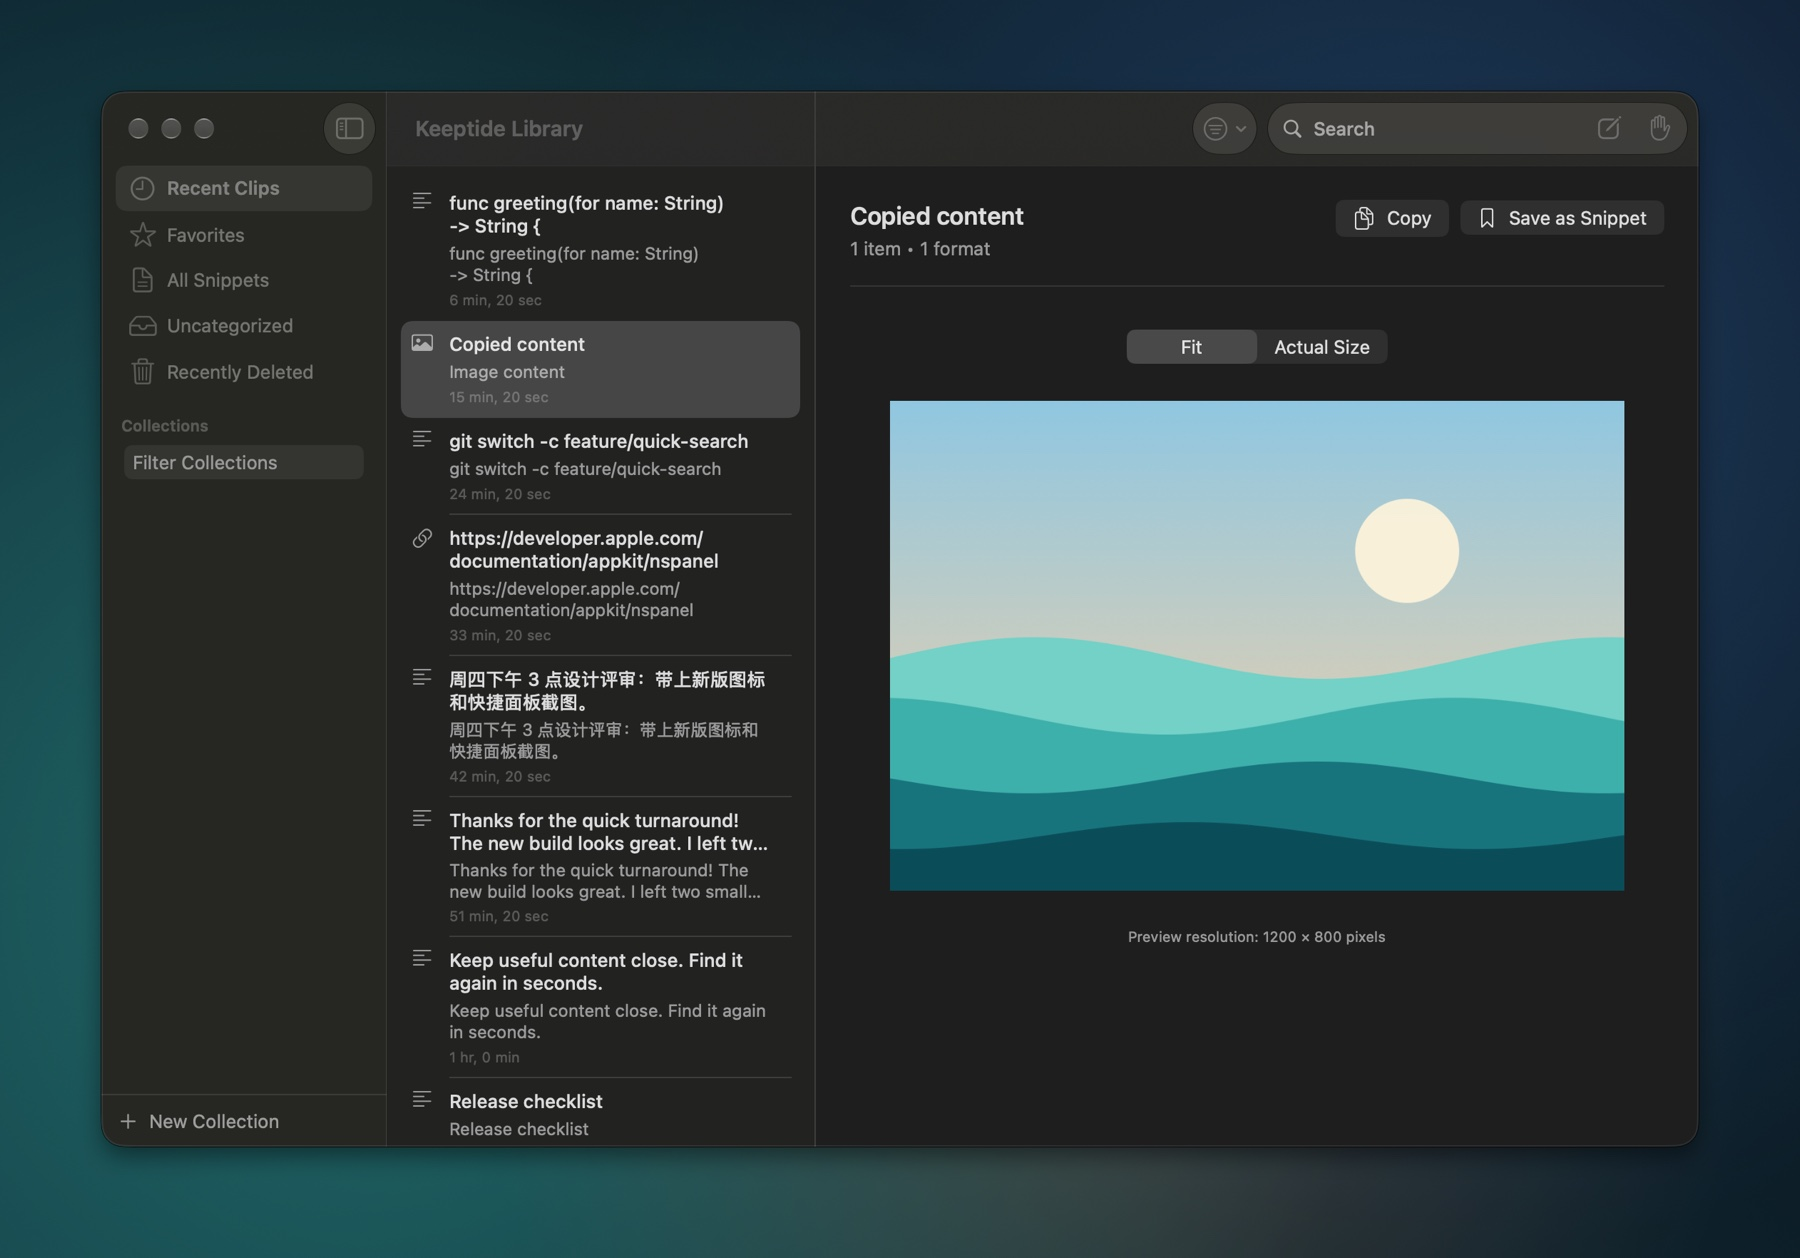
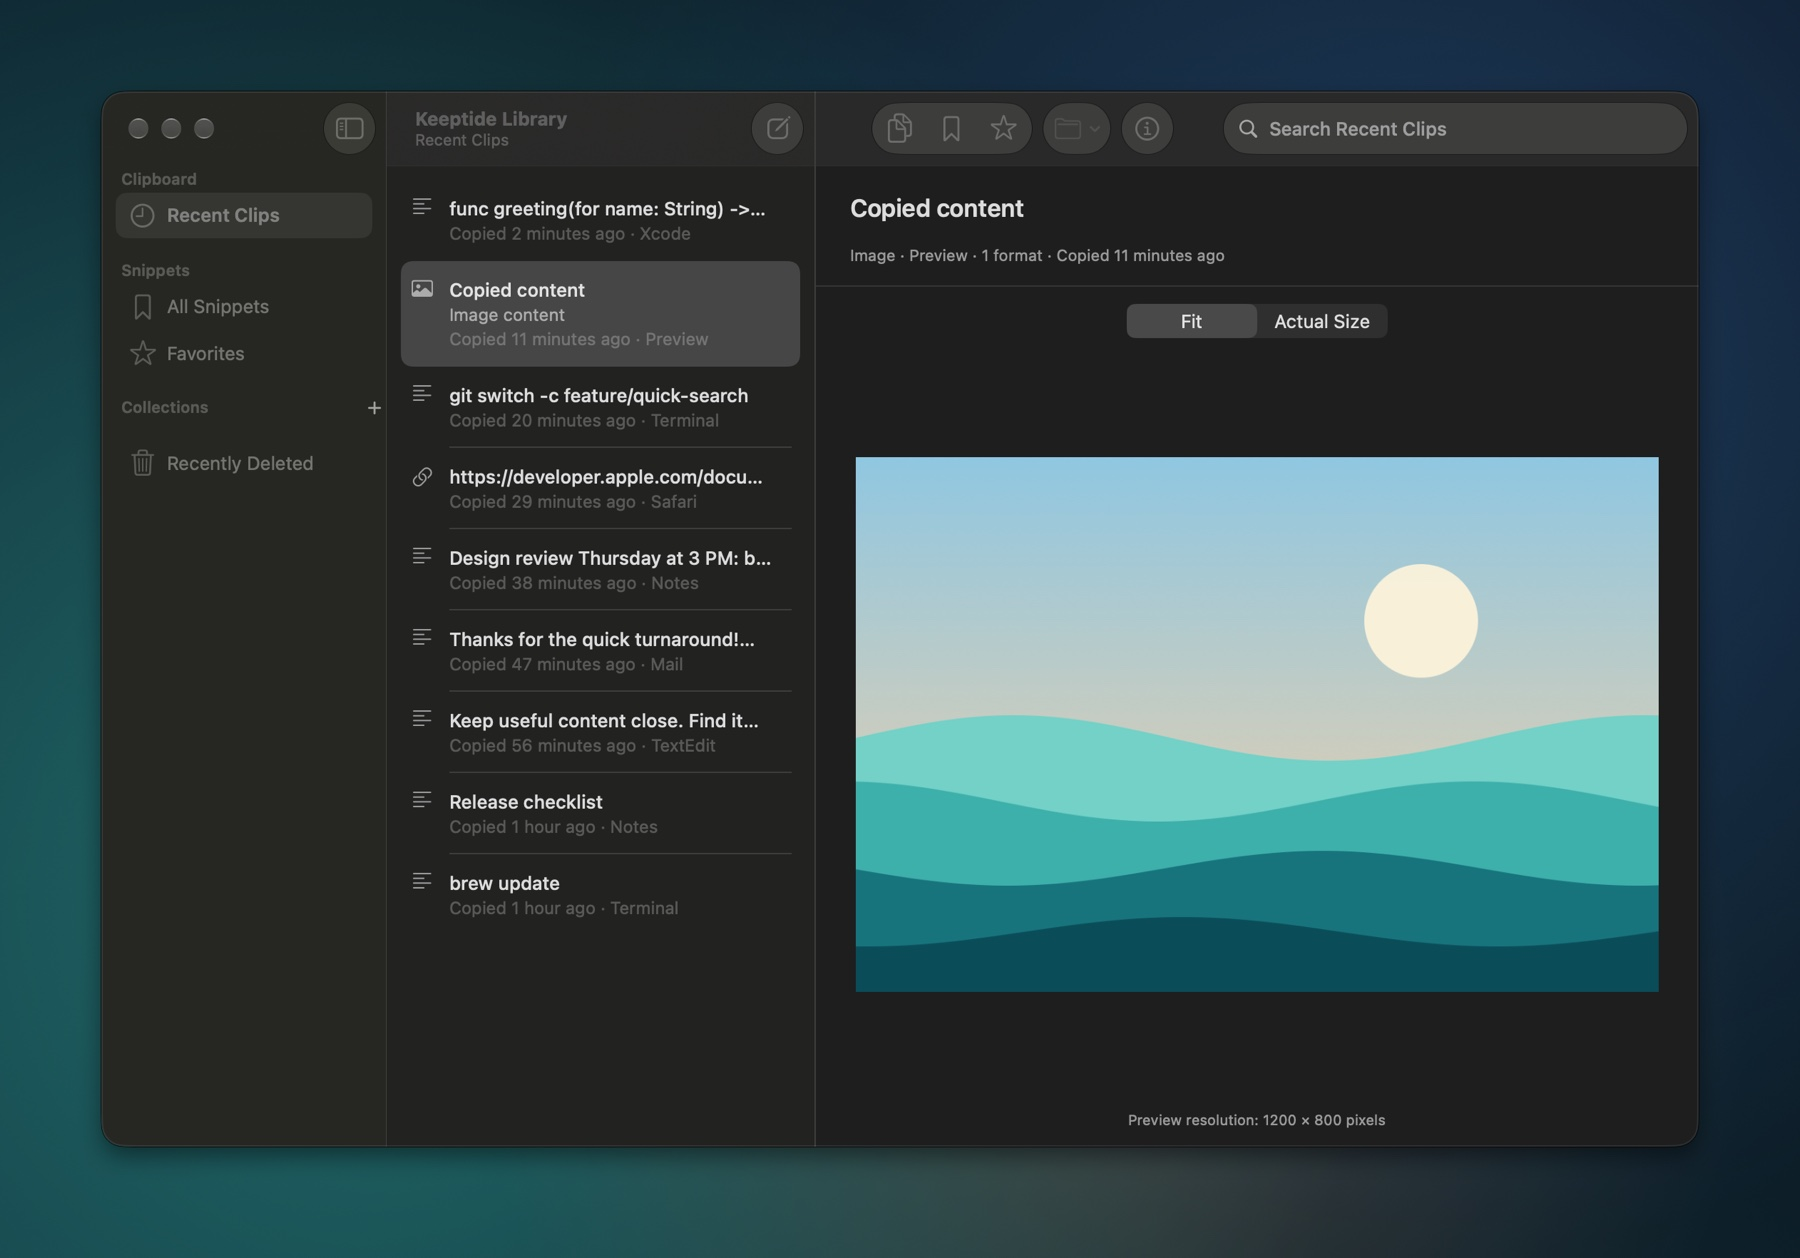
Show the redesigned library in the README screenshot
The library screenshot is retaken from a synthetic test library with
English content only: the sidebar's sections, the three-line rows, and
a selected image clip under its title, with the item group and Info in
the toolbar. The alt text describes the new layout.

diff --git a/README.md b/README.md
@@ -129,7 +129,7 @@ open the selected clip there.
   backup you can import.
 
 <p align="center">
-  <img src="docs/images/library.jpg" width="900" alt="The Keeptide library: a sidebar with Recent Clips, Favorites, All Snippets, Uncategorized and Recently Deleted, a list of recent clips, and a preview of the selected landscape image with Copy and Save as Snippet buttons">
+  <img src="docs/images/library.jpg" width="900" alt="The Keeptide library: a sidebar with Recent Clips, All Snippets, Favorites, Collections and Recently Deleted; a list of recent clips, each with the time it was copied and the app it came from; and the selected landscape image under its title and one line of details, with Copy, Save as Snippet, Favorite, Collection and Info in the toolbar">
 </p>
 
 ### Settings
